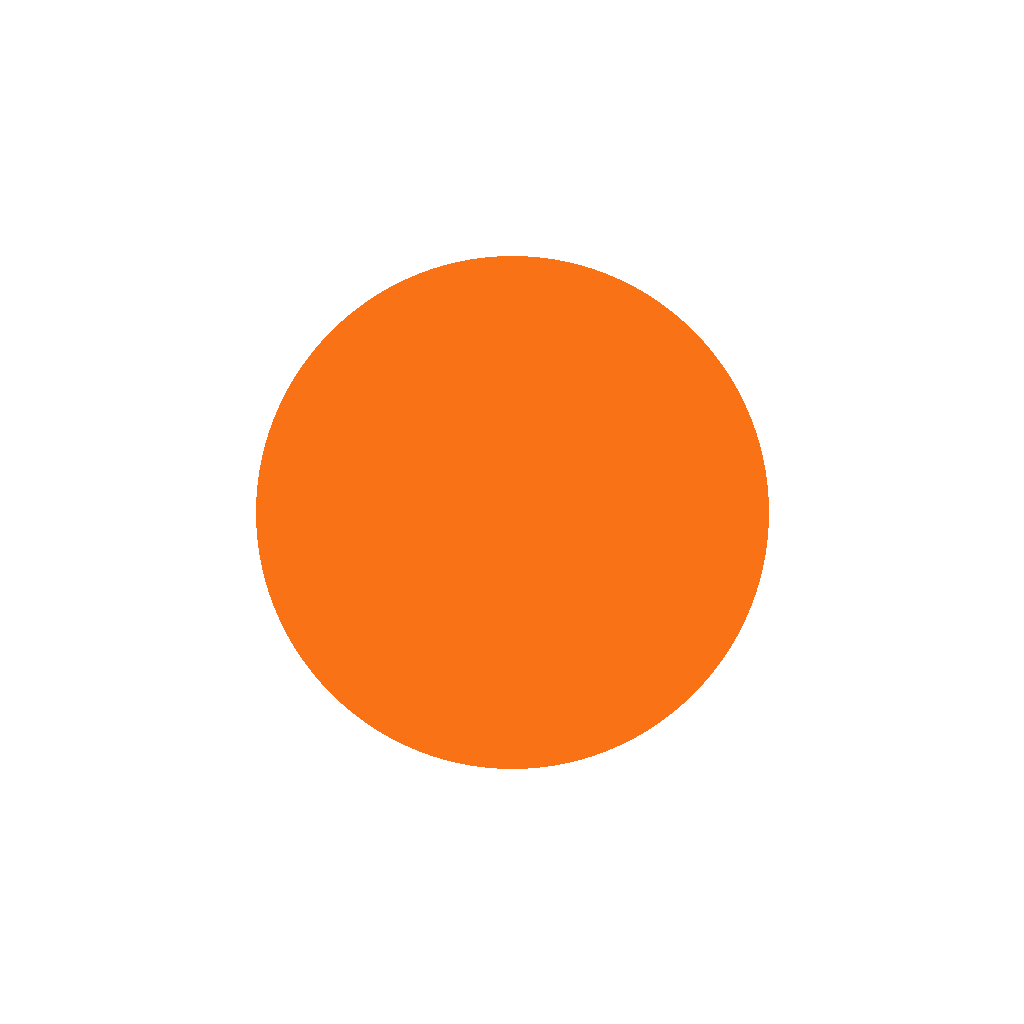
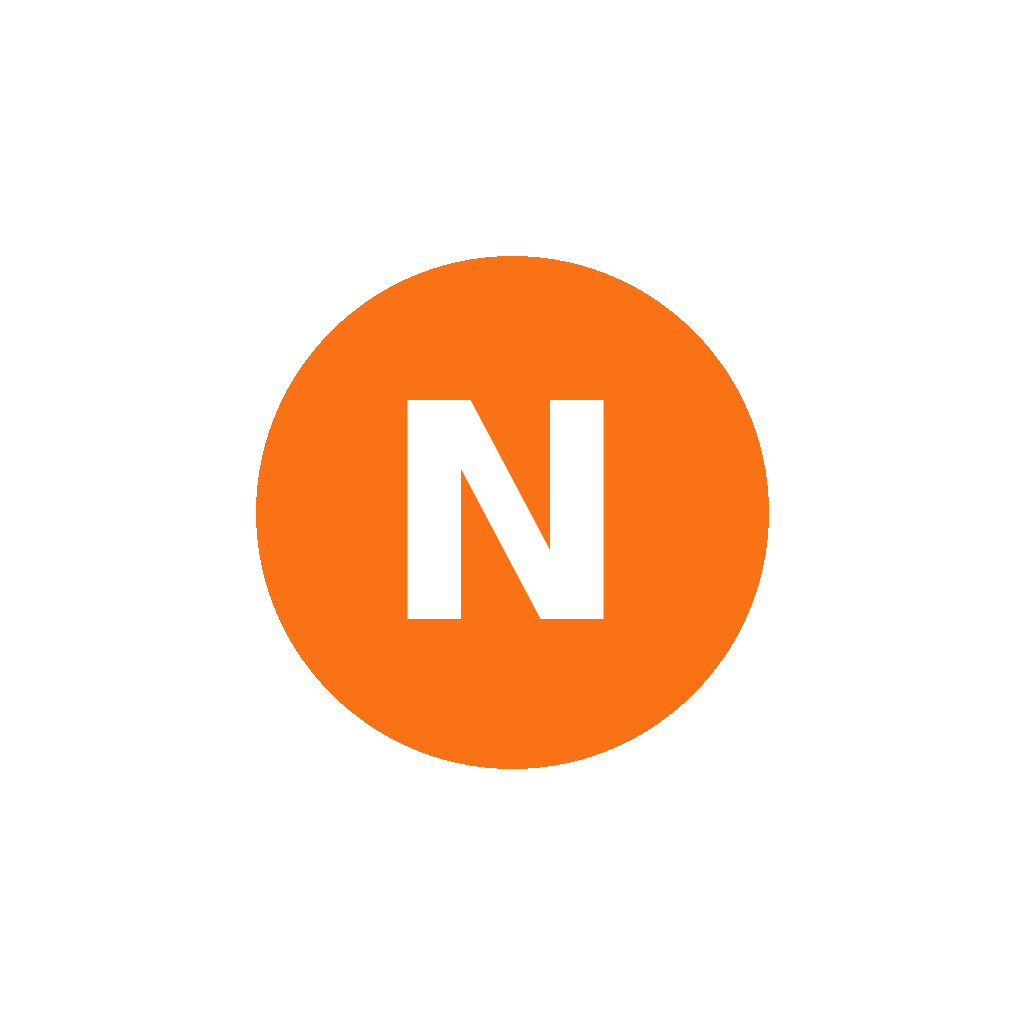
fix: app showing black screen — add visible loading screen + 5s timeout fallback
Problems:
- Splash screen was a solid dark PNG (looked like a black screen)
- Loading screen in AppNavigator was just a small spinner on dark bg (looked black)
- If AuthContext's isLoading stayed true (slow network/SecureStore), app was stuck

Fixes:
- assets/splash.png: replaced with proper splash — orange circle with 'N' logo + 'NAWAQES' text
- assets/icon.png: orange bg with white 'N'
- assets/adaptive-icon.png: transparent bg + orange circle with 'N'
- AppNavigator loading screen: now shows orange logo circle + 'نواقص' title + spinner + 'جارٍ التحميل...'
- Added 5s safety timeout: if isLoading stays true >5s, force-show Login screen
  (prevents permanent black screen if network is slow or SecureStore hangs)

Changed region(s): [[0.375, 0.375, 0.5938, 0.625]]

diff --git a/src/navigation/AppNavigator.tsx b/src/navigation/AppNavigator.tsx
@@ -1,12 +1,12 @@
 // ─── Navigation Setup ───────────────────────────────────────────────
 // React Navigation with auth flow + bottom tabs + stack screens.
 
-import React from 'react';
+import React, { useEffect } from 'react';
 import { NavigationContainer } from '@react-navigation/native';
 import { createNativeStackNavigator } from '@react-navigation/native-stack';
 import { createBottomTabNavigator } from '@react-navigation/bottom-tabs';
 import { useAuth } from '../contexts/AuthContext';
-import { ActivityIndicator, View, StyleSheet } from 'react-native';
+import { ActivityIndicator, View, StyleSheet, Text } from 'react-native';
 import { Home, Wallet, User, Plus, MessageCircle, Search, Bell, ShoppingBag, Video } from 'lucide-react-native';
 
 import LoginScreen from '../screens/LoginScreen';
@@ -94,18 +94,36 @@ const Stack = createNativeStackNavigator();
 export default function AppNavigator() {
   const { isAuthenticated, isLoading, user } = useAuth();
 
-  if (isLoading) {
+  // 🔧 Safety timeout: if isLoading stays true for >5s, force-show login.
+  // This prevents the app from getting stuck on a black loading screen
+  // if the network is slow or SecureStore hangs.
+  const [forceLogin, setForceLogin] = React.useState(false);
+  useEffect(() => {
+    if (!isLoading) return;
+    const t = setTimeout(() => setForceLogin(true), 5000);
+    return () => clearTimeout(t);
+  }, [isLoading]);
+
+  if (isLoading && !forceLogin) {
     return (
       <View style={styles.loading}>
-        <ActivityIndicator size="large" color="#f97316" />
+        <View style={styles.logoCircle}>
+          <Text style={styles.logoText}>N</Text>
+        </View>
+        <Text style={styles.loadingText}>نواقص</Text>
+        <ActivityIndicator size="large" color="#f97316" style={{ marginTop: 20 }} />
+        <Text style={styles.loadingSubtext}>جارٍ التحميل...</Text>
       </View>
     );
   }
 
+  // If forced past loading, treat as not authenticated
+  const showAuth = isAuthenticated && !forceLogin;
+
   return (
     <NavigationContainer>
       <Stack.Navigator screenOptions={{ headerShown: false }}>
-        {isAuthenticated ? (
+        {showAuth ? (
           <>
             <Stack.Screen name="Main" component={MainTabs} />
             <Stack.Screen
@@ -145,5 +163,29 @@ const styles = StyleSheet.create({
     backgroundColor: '#0f172a',
     alignItems: 'center',
     justifyContent: 'center',
+  },
+  logoCircle: {
+    width: 100,
+    height: 100,
+    borderRadius: 50,
+    backgroundColor: '#f97316',
+    alignItems: 'center',
+    justifyContent: 'center',
+    marginBottom: 16,
+  },
+  logoText: {
+    color: '#fff',
+    fontSize: 56,
+    fontWeight: '900',
+  },
+  loadingText: {
+    color: '#fff',
+    fontSize: 28,
+    fontWeight: '900',
+  },
+  loadingSubtext: {
+    color: '#94a3b8',
+    fontSize: 13,
+    marginTop: 8,
   },
 });